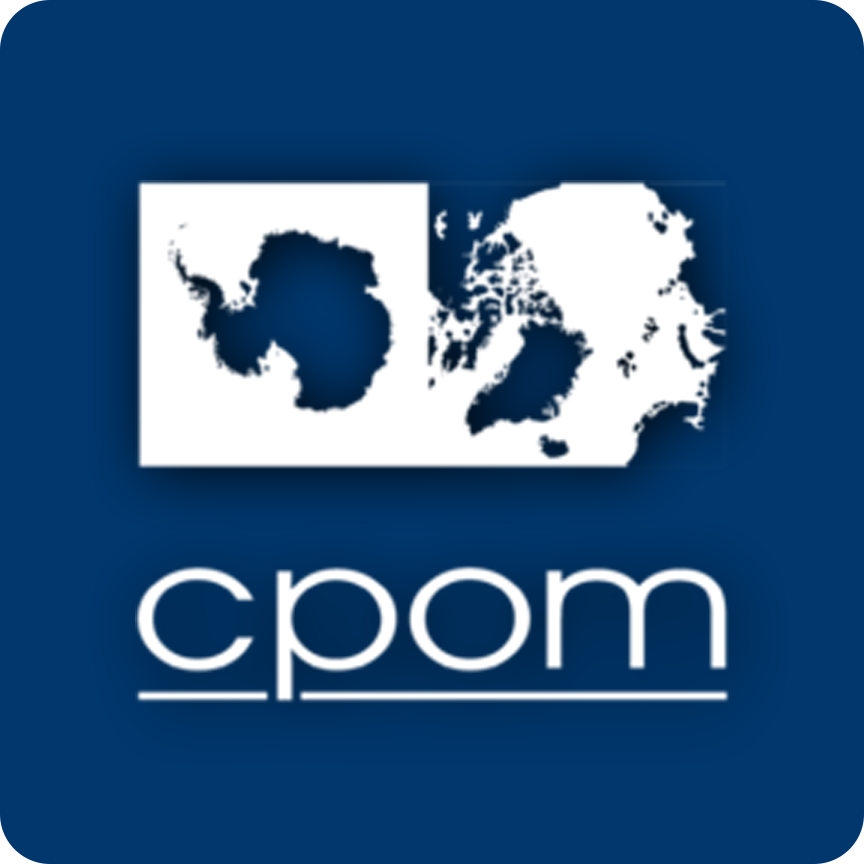
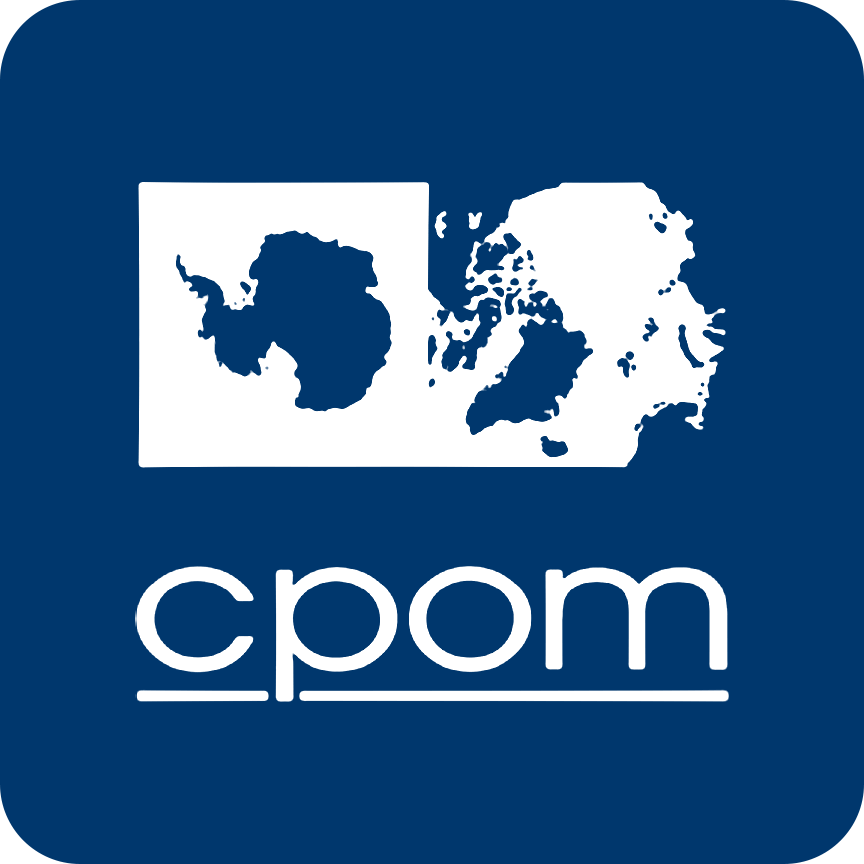
Updates 2 - 23/08/16
Added email intent in about screen.
Updated logo (again...)

diff --git a/www/js/controllers.js b/www/js/controllers.js
@@ -316,25 +316,38 @@ angular.module('app.controllers', [])
 
 })
 
-.controller('aboutCtrl', function($scope, $cordovaEmailComposer){
+.controller('aboutCtrl', function($scope, $ionicPlatform){
 	$scope.leedsSite = function(){
 		window.open("http://cpom.leeds.ac.uk", '_system');
-	}
+	};
 	$scope.uclSite = function(){
 		window.open("http://www.cpom.ucl.ac.uk/csopr/seaice.html", '_system');
-	}
-    $scope.sendMail = function(){
-        var email = {
-             to: 'py14sts@leeds.ac.uk',
-             subject: 'Feedback about CPOM App!',
-             body: '<h1 style="color:#313131; text-align:center">Feedback about CPOM App!</h1>',
-             isHtml: true
-          };
-        
-        $cordovaEmailComposer.open(email).then(null, function () {
-        // user cancelled email
+	};
+    
+    $ionicPlatform.ready(function(){
+        cordova.plugins.email.isAvailable(function(isAvailable){
+            if(isAvailable){
+                var bodyText = "<h1 style='text-align:center; color:lightgrey; font-family:sans-serif'>Feedback about CPOM App!</h1>"
+                console.log('[SendMail] Email plugin is available');
+                $scope.sendEmail = function(){
+                    cordova.plugins.email.open({
+                        to: ["py14sts@leeds.ac.uk"],
+                        cc: null,
+                        bcc: null,
+                        attachments: null,
+                        subject: "Feedback about CPOM App!",
+                        body: bodyText,
+                        isHtml: true,
+                    }, function(){
+                        console.log('[SendMail] Email window closed.');
+                    });
+                };
+            } else {
+                console.log('[SendMail] Email plugin is not available');
+            };
         });
-    }
+    });
+    
 })
 
 .controller('settingsCtrl', function($scope){

diff --git a/www/templates/about.html b/www/templates/about.html
@@ -34,7 +34,7 @@
             <h5 style="text-align:center;">Sam Spillard: py14sts@leeds.ac.uk</h5>
             <h5 style="text-align:center;">James Bucag: py14jb@leeds.ac.uk</h5>
             <h4 style="text-align:center; font-weight:bold">Feedback</h4>
-    		<ion-item class="item-icon-right shady item-text-wrap" ng-click="sendMail()">
+    		<ion-item class="item-icon-right shady item-text-wrap" ng-click="sendEmail()">
                <h3>Send me an email with feedback about the app!</h3>
     		    <i class="icon ion-paper-airplane"></i>
     		</ion-item>
